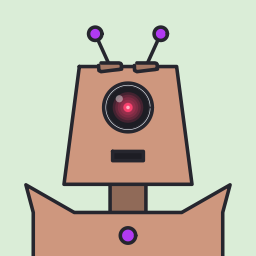
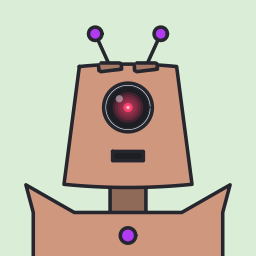
Bow the flat edges of trapezoid and dome heads
The straight horizontal edges of the trapezoid, inverted trapezoid, dome
and inverted dome now bow slightly outward (2.5% of the edge's width at
its middle), so those heads read as cylinders or cones.

diff --git a/robot/render_test.go b/robot/render_test.go
@@ -446,3 +446,64 @@ func TestRivetsClearGrille(t *testing.T) {
 		}
 	}
 }
+
+// TestRenderCylinderEdges checks the trapezoid and dome families' straight
+// horizontal edges bow outward at their middle (so the heads read as
+// cylinders), while square heads stay flat. One unit past where a flat edge
+// would be, at the edge's midpoint, a flat head shows its outline and a bowed
+// one its fill.
+func TestRenderCylinderEdges(t *testing.T) {
+	no := false
+	body := color.NRGBA{0x33, 0x66, 0xcc, 0xff}
+	cases := []struct {
+		head        string
+		top, bottom bool // which edges bow
+	}{
+		{"trapezoid", true, true},
+		{"inverted-trapezoid", true, true},
+		{"dome", false, true},
+		{"inverted-dome", true, false},
+		{"square", false, false},
+	}
+	for _, c := range cases {
+		s := Resolve(Spec{Head: c.head, Tall: &no, Antenna: "none", Eyes: "led", Mouth: "line",
+			Face: &neutral, Body: "#3366cc", Background: "#ff0000", Rivets: &no, Panels: &no, Blush: &no}, 3)
+		b := headLayout(s)
+		img := Render(s, 1000)
+		for _, e := range []struct {
+			name string
+			bows bool
+			y    float64
+		}{
+			{"top", c.top, b.Y - 1},
+			{"bottom", c.bottom, b.Y + b.H + 1},
+		} {
+			if e.name == "top" && (c.head == "dome" || c.head == "square") {
+				continue // no straight top edge to test
+			}
+			got := pixel(img, 1000, b.CX(), e.y)
+			if e.bows && !near(got, body) {
+				t.Errorf("%s %s: past the edge = %v, want head (bowed)", c.head, e.name, got)
+			}
+			if !e.bows && near(got, body) {
+				t.Errorf("%s %s: past the edge is head, want flat", c.head, e.name)
+			}
+		}
+	}
+}
+
+// TestRenderCylinderEdgesScale checks the bow is drawn in canvas units, not
+// output pixels: at a small size the bowed bottom's midpoint still bulges
+// past the flat line by about bowRatio of the width.
+func TestRenderCylinderEdgesScale(t *testing.T) {
+	no := false
+	body := color.NRGBA{0x33, 0x66, 0xcc, 0xff}
+	s := Resolve(Spec{Head: "dome", Tall: &no, Antenna: "none", Eyes: "led", Mouth: "line",
+		Face: &neutral, Body: "#3366cc", Background: "#ff0000", Rivets: &no, Panels: &no, Blush: &no}, 3)
+	b := headLayout(s)
+	// At 200px one pixel is 5 units; the bowed fill reaches ~5.5 units past
+	// the flat line (12.5 bow - 7 outline), so sample 3 units past it.
+	if got := pixel(Render(s, 200), 200, b.CX(), b.Y+b.H+3); !near(got, body) {
+		t.Errorf("bowed bottom at 200px = %v, want head", got)
+	}
+}

diff --git a/robot/part_head.go b/robot/part_head.go
@@ -22,13 +22,14 @@ var headPaths = map[string]func(dc *gg.Context, b Layout){
 		dc.LineTo(b.X, b.Y+r)
 		dc.DrawArc(b.CX(), b.Y+r, r, math.Pi, 2*math.Pi)
 		dc.LineTo(b.X+b.W, b.Y+b.H)
+		bowTo(dc, b.X+b.W, b.X, b.Y+b.H, +1)
 		dc.ClosePath()
 	},
 	"inverted-dome": func(dc *gg.Context, b Layout) {
 		r := b.W / 2
 		dc.NewSubPath()
 		dc.MoveTo(b.X, b.Y)
-		dc.LineTo(b.X+b.W, b.Y)
+		bowTo(dc, b.X, b.X+b.W, b.Y, -1)
 		dc.LineTo(b.X+b.W, b.Y+b.H-r)
 		dc.DrawArc(b.CX(), b.Y+b.H-r, r, 0, math.Pi)
 		dc.ClosePath()
@@ -36,19 +37,34 @@ var headPaths = map[string]func(dc *gg.Context, b Layout){
 	"trapezoid": func(dc *gg.Context, b Layout) {
 		dc.NewSubPath()
 		dc.MoveTo(b.X+trapezoidInset, b.Y)
-		dc.LineTo(b.X+b.W-trapezoidInset, b.Y)
+		bowTo(dc, b.X+trapezoidInset, b.X+b.W-trapezoidInset, b.Y, -1)
 		dc.LineTo(b.X+b.W, b.Y+b.H)
-		dc.LineTo(b.X, b.Y+b.H)
+		bowTo(dc, b.X+b.W, b.X, b.Y+b.H, +1)
 		dc.ClosePath()
 	},
 	"inverted-trapezoid": func(dc *gg.Context, b Layout) {
 		dc.NewSubPath()
 		dc.MoveTo(b.X, b.Y)
-		dc.LineTo(b.X+b.W, b.Y)
+		bowTo(dc, b.X, b.X+b.W, b.Y, -1)
 		dc.LineTo(b.X+b.W-trapezoidInset, b.Y+b.H)
-		dc.LineTo(b.X+trapezoidInset, b.Y+b.H)
+		bowTo(dc, b.X+b.W-trapezoidInset, b.X+trapezoidInset, b.Y+b.H, +1)
 		dc.ClosePath()
 	},
+}
+
+// bowRatio is how far a cylinder-like head's horizontal edge bows out at its
+// middle, as a fraction of the edge's width, so the head reads as a cylinder
+// (or cone) seen straight on: narrower ends bow proportionally less.
+const bowRatio = 0.025
+
+// bowTo continues the current path, which is at (from, y), horizontally to
+// (to, y) along a shallow curve that bows out by bowRatio of its width at the
+// middle: up (dir -1) for a top edge, down (dir +1) for a bottom edge. The
+// start is passed in because gg reports the current point in device space.
+func bowTo(dc *gg.Context, from, to, y, dir float64) {
+	sag := math.Abs(to-from) * bowRatio
+	// A quadratic curve peaks at half its control point's offset.
+	dc.QuadraticTo((from+to)/2, y+dir*2*sag, to, y)
 }
 
 // cornerRadius is the bottom-corner radius of each head shape (0 if sharp).
